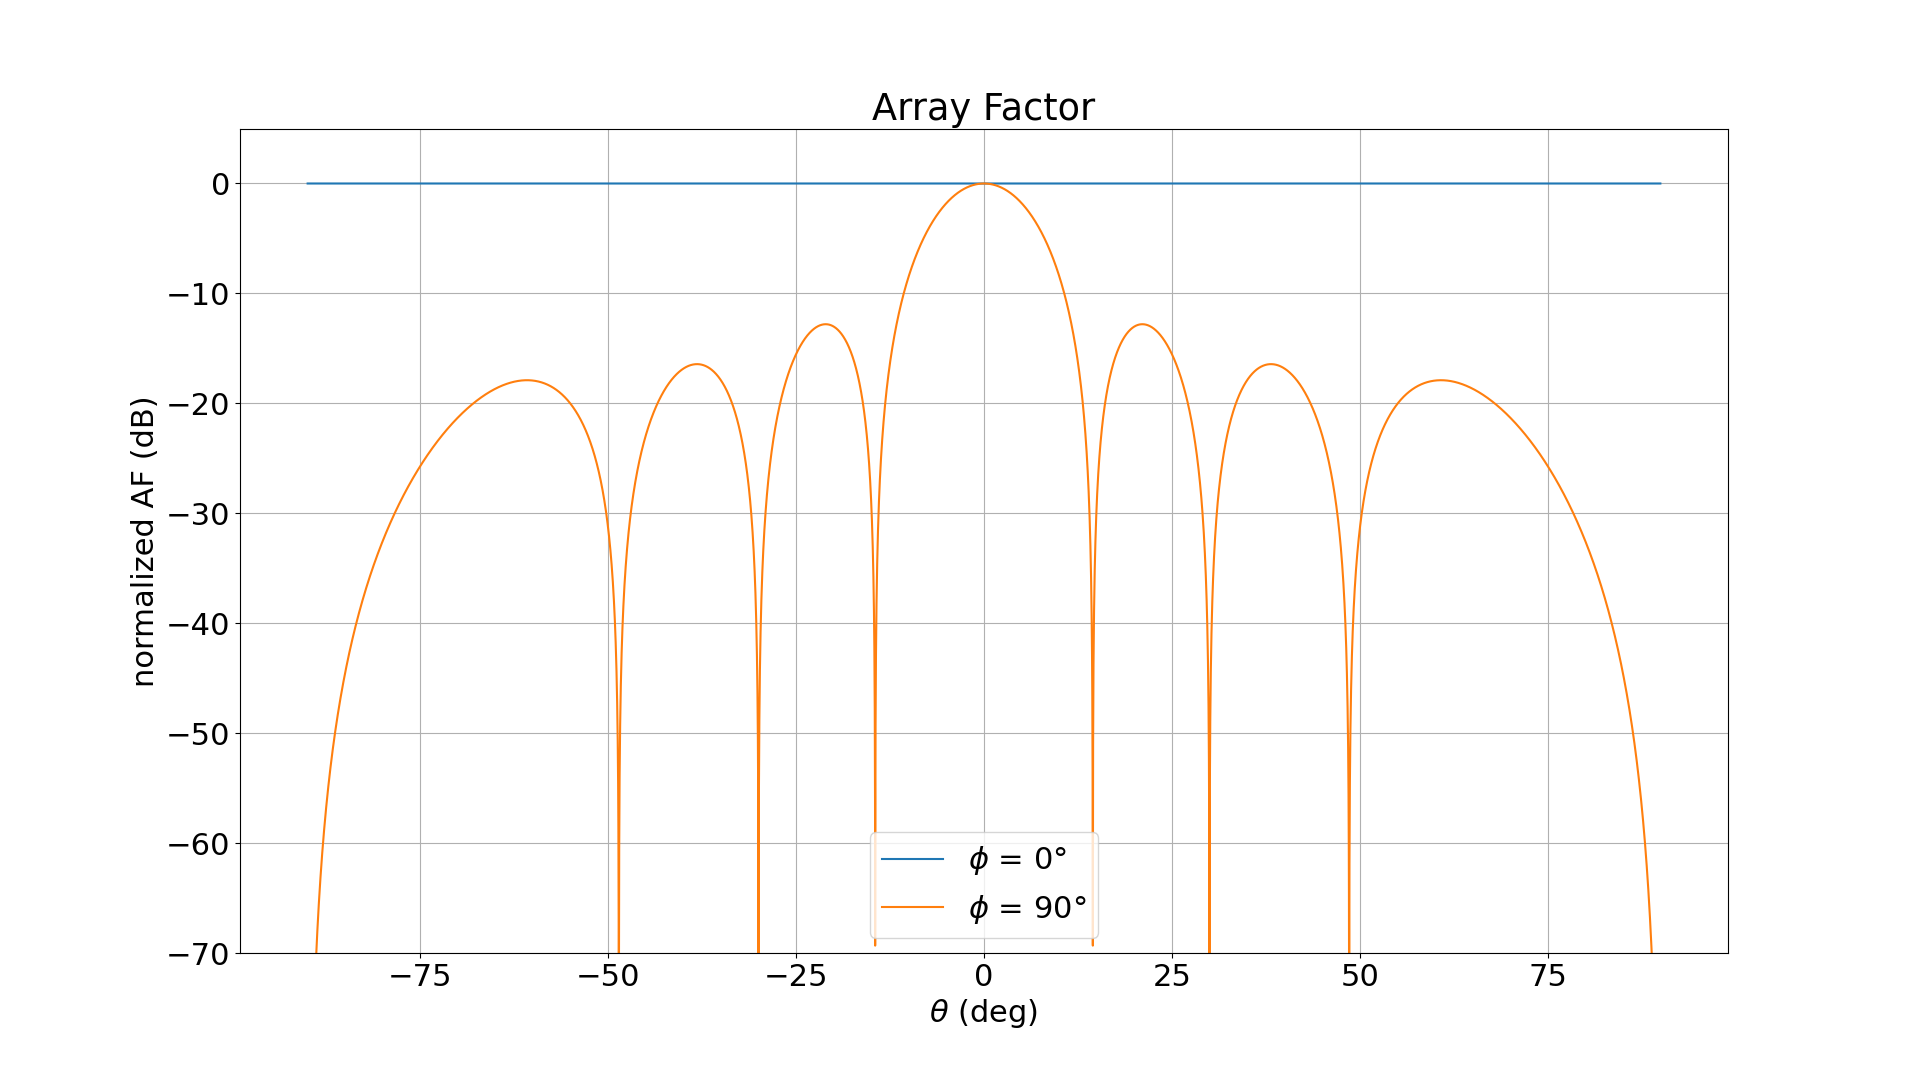
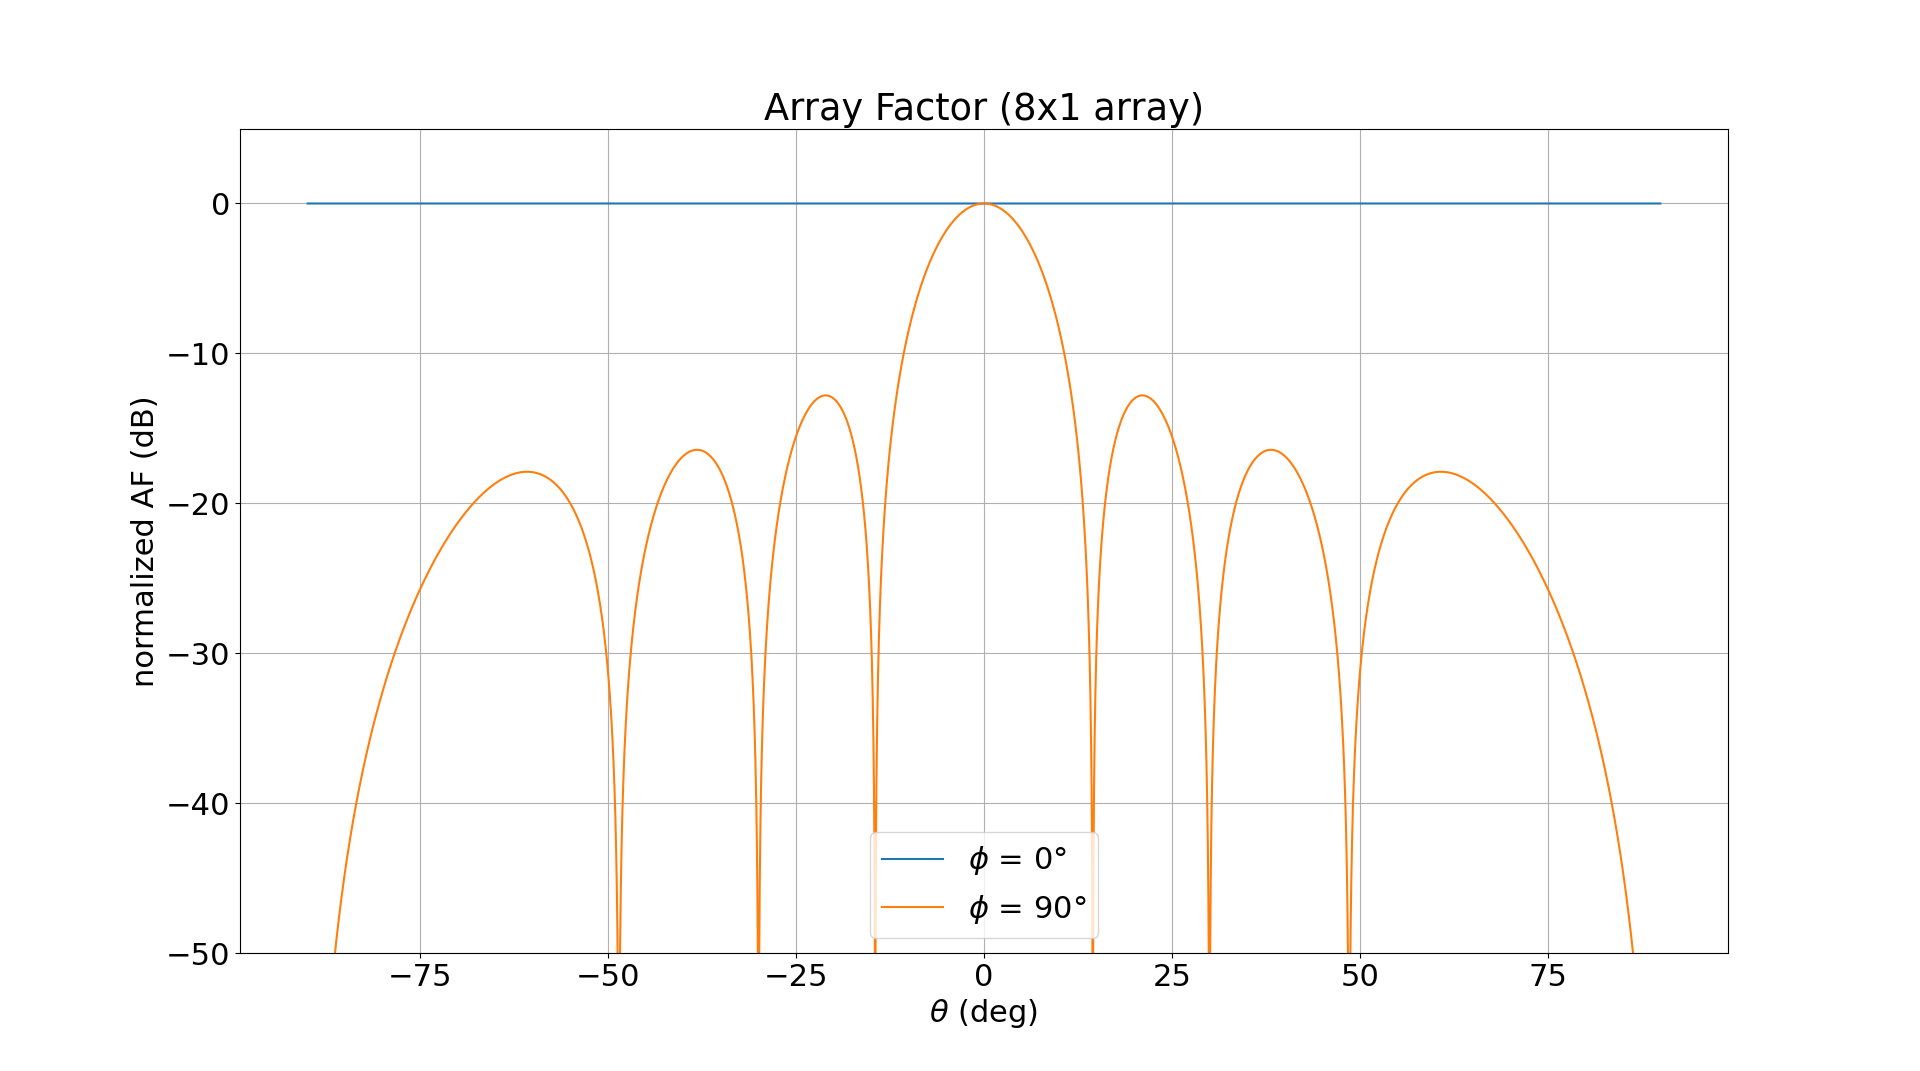
betere plaatjes

diff --git a/lab3/Lab3_exercise2.py b/lab3/Lab3_exercise2.py
@@ -140,10 +140,10 @@ def calc_sidelobelevel(pattern):
 
 
 
-def plot_2d_cuts(pat_zerophi,pat_90phi,theta):
+def plot_2d_cuts(pat_zerophi,pat_90phi,theta, twentylog=False):
   
-    pat_zerophi_dB = 10*np.log10(pat_zerophi)
-    pat_90phi_dB = 10*np.log10(pat_90phi)
+    pat_zerophi_dB = 20*np.log10(pat_zerophi) if twentylog else 10*np.log10(pat_zerophi)
+    pat_90phi_dB = 20*np.log10(pat_90phi) if twentylog else 10*np.log10(pat_90phi)
 
     fig = plt.figure()
     ax = fig.add_subplot()
@@ -151,7 +151,7 @@ def plot_2d_cuts(pat_zerophi,pat_90phi,theta):
     ax.plot(np.rad2deg(theta),pat_zerophi_dB,label="$\phi$ = 0$\degree$")
     ax.plot(np.rad2deg(theta),pat_90phi_dB,label="$\phi$ = 90$\degree$")
 
-    ax.set_ylim(-70,5)
+    ax.set_ylim(-50,5)
     ax.set_xlabel("$\\theta$ (deg)")
     ax.set_ylabel("normalized AF (dB)")
         
@@ -213,9 +213,9 @@ def lab3_ex2a():
     print(f"The directivity of the antenna is {round(D,3)}, which is {round(10*np.log10(D),4)} dB")
 
     # actual plotting
-    fig,ax = plot_2d_cuts(AF_zerophi, AF_90phi, theta)
+    fig,ax = plot_2d_cuts(AF_zerophi, AF_90phi, theta, twentylog=True)
     
-    ax.set_title("Array Factor")
+    ax.set_title("Array Factor (8x1 array)")
 
     
     
@@ -249,7 +249,7 @@ def lab3_ex2b():
     pattern = patch_antenna(L,W,THETA,PHI)
     pattern_zerophi,pattern_90phi = pattern
     
-    fig,ax = plot_2d_cuts(pattern_zerophi, pattern_90phi, theta)
+    fig,ax = plot_2d_cuts(pattern_zerophi, pattern_90phi, theta, twentylog=False)
     
     ax.set_ylabel("normalized gain (dB)")
     ax.set_title("Patch antenna radiation pattern")
@@ -291,7 +291,7 @@ def lab3_ex2c():
     # calc AF
     AF_norm = array_factor(dy,0,THETA,PHI,8)
     
-    total_norm = element_pattern_norm * AF_norm
+    total_norm = element_pattern_norm * AF_norm**2
 
     # plot 3D
     plot_pattern3D(total_norm, THETA, PHI)
@@ -306,21 +306,21 @@ def lab3_ex2c():
     # element factor
     ef_zerophi,ef_90phi = patch_antenna(L, W, THETA, PHI)
    
-    fig,ax = plot_2d_cuts(ef_zerophi, ef_90phi, theta)
+    fig,ax = plot_2d_cuts(ef_zerophi, ef_90phi, theta,twentylog=False)
     ax.set_ylabel("normalized gain (dB)")
     # array factor
     
     af_zerophi, af_90phi = array_factor(dy, 0, PHI, THETA, N)
     
-    fig,ax = plot_2d_cuts(af_zerophi, af_90phi,theta)
+    fig,ax = plot_2d_cuts(af_zerophi, af_90phi,theta, twentylog=True)
     ax.set_ylabel("normalized AF (dB)")
     
     
-    total_zerophi = ef_zerophi * af_zerophi
-    total_90phi = ef_90phi * af_90phi
+    total_zerophi = ef_zerophi * af_zerophi**2
+    total_90phi = ef_90phi * af_90phi**2
     
     
-    fig,ax = plot_2d_cuts(total_zerophi, total_90phi,theta)
+    fig,ax = plot_2d_cuts(total_zerophi, total_90phi,theta, twentylog=True)
     ax.set_ylabel("normalized gain (dB)")
     ax.set_title("Total radiation pattern (8x1 patch array)")
     
@@ -358,7 +358,7 @@ def lab3_ex2d():
     # calc array factor of 8x8 array
     AF_norm = array_factor(dy, dx, PHI, THETA, N, M=M)
         
-    total_pattern = AF_norm * element_pattern_norm
+    total_pattern = AF_norm**2 * element_pattern_norm
     # PLOTTING
     plot_pattern3D(total_pattern, THETA, PHI,title="Antenna factor (8x8)")
 
@@ -375,8 +375,8 @@ def lab3_ex2d():
     AF_zerophi,AF_90phi = AF_norm
 
 
-    fig,ax = plot_2d_cuts(AF_zerophi, AF_90phi,theta)
-    ax.set_ylabel("normalized array factor (dB)")
+    fig,ax = plot_2d_cuts(AF_zerophi, AF_90phi,theta, twentylog=True)
+    ax.set_ylabel("Normalized array factor (dB)")
     ax.set_title("Array factor (8x8 patch array)")
 
     # element pattern
@@ -385,11 +385,11 @@ def lab3_ex2d():
     # split in zero and 90
     pattern_zerophi, pattern_90phi = element_pattern_norm
     
-    total_zerophi = AF_zerophi * pattern_zerophi
-    total_90phi = AF_90phi * pattern_90phi
+    total_zerophi = AF_zerophi**2 * pattern_zerophi
+    total_90phi = AF_90phi**2 * pattern_90phi
     
-    fig,ax = plot_2d_cuts(total_zerophi, total_90phi,theta)
-    ax.set_ylabel("normalized gain (dB)")
+    fig,ax = plot_2d_cuts(total_zerophi, total_90phi,theta,twentylog=False)
+    ax.set_ylabel("Normalized gain (dB)")
     ax.set_title("Total radiation pattern (8x8 patch array)")
     
     
@@ -443,9 +443,9 @@ def lab3_ex2d():
 if __name__=="__main__":
     
     
-    #lab3_ex2a()
-    #lab3_ex2b()
-    #lab3_ex2c()
+    lab3_ex2a()
+    lab3_ex2b()
+    lab3_ex2c()
     lab3_ex2d()
     
     

diff --git a/lab3/lab3_exercise4.py b/lab3/lab3_exercise4.py
@@ -133,7 +133,7 @@ THETA, PHI = np.meshgrid(theta, phi)
 
 AF_zerophi,AF_90phi = array_factor_taper(dy,0,PHI,THETA,taper_coef,N)
 
-fig,ax = plot_2d_cuts(AF_zerophi,AF_90phi, theta)
+fig,ax = plot_2d_cuts(AF_zerophi,AF_90phi, theta,twentylog=True)
 
 
 AF_zerophi_dB = 20*np.log10(AF_zerophi)
@@ -205,7 +205,7 @@ THETA, PHI = np.meshgrid(theta, phi)
 
 AF_zerophi,AF_90phi = array_factor_taper(dy,dx,PHI,THETA,taper_coef,N, M=M)
 
-fig,ax = plot_2d_cuts(AF_zerophi,AF_90phi, theta)
+fig,ax = plot_2d_cuts(AF_zerophi,AF_90phi, theta, twentylog=True)
 
 
 
